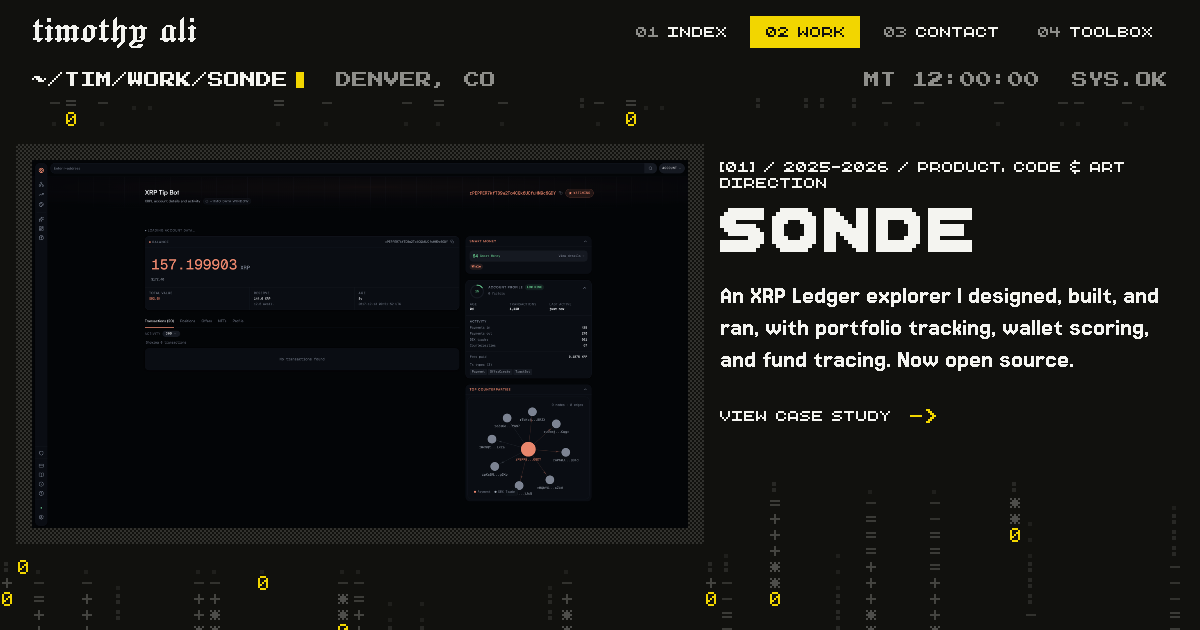
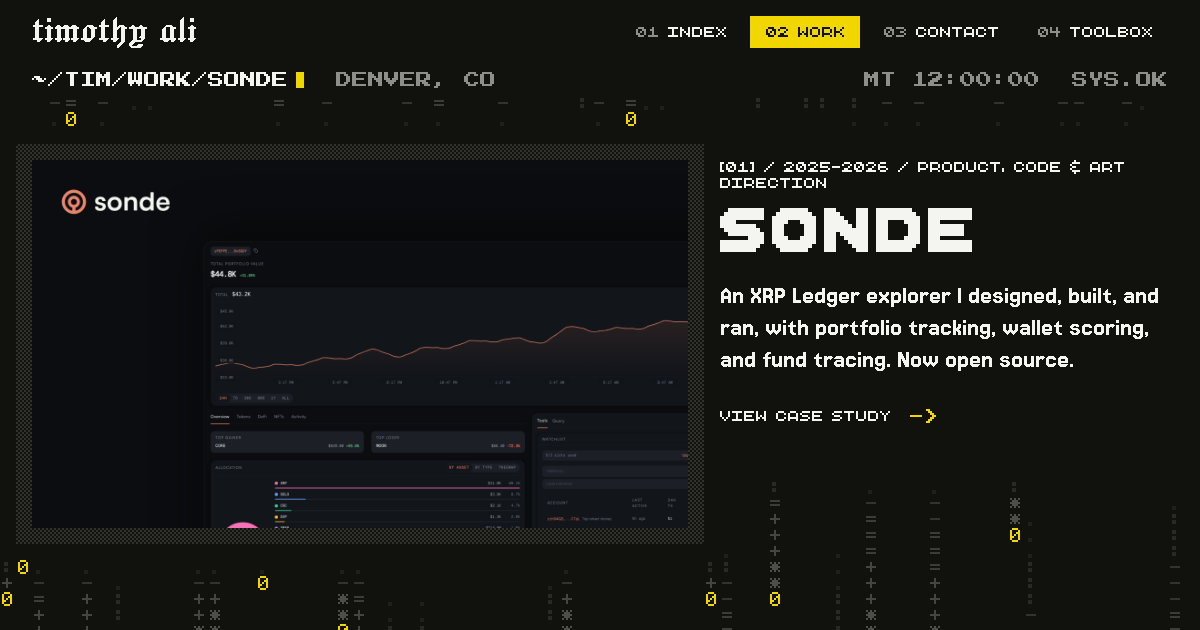
Covers for Sonde, Pocketwatch and Toolbox (PX-58, 0144)
Each cover is now the app large and cropped by the frame on the product's
own dark ground, with its logo top left: Sonde's portfolio page under its
salmon mark, Pocketwatch's dashboard under its white lockup for dark
grounds, Toolbox's home screen under the yellow Jacquard wordmark.
Rendered by tools/covers/generate.mjs at 2880x1620; the Work collage and
the three study share images regenerated, and the share-image manifest
now matches the files on disk.

diff --git a/src/lib/work.ts b/src/lib/work.ts
@@ -82,8 +82,9 @@ const source: Source[] = [
     tools: 'Figma, Next.js, TypeScript, Tailwind CSS, Recharts, PostgreSQL, ClickHouse, Neo4j, WebSockets, SSE',
     source: { href: 'https://github.com/tasyusef/sonde_os', label: 'sonde_os on GitHub' },
     description: 'An XRP Ledger explorer I designed, built, and ran, with portfolio tracking, wallet scoring, and fund tracing. Now open source.',
-    // The account page, not the near-empty landing (0132): the product on the card.
-    cover: so('account.png', 1600, 900, 'Sonde account page: balance, smart money score, risk profile, and counterparty graph'),
+    // Covers for the three products are the app large on its own dark ground under its logo
+    // (direction B, 2026-09-29), rendered by tools/covers/generate.mjs.
+    cover: so('cover.png', 2880, 1620, 'The Sonde logo over its portfolio page: total portfolio value, a performance chart, and allocation'),
     lead: [
       "Sonde was an XRP Ledger explorer with network analytics, portfolio tracking, and tools for investigating account activity. I designed, built, and ran it myself."
     ],
@@ -140,8 +141,7 @@ const source: Source[] = [
     team: 'Chris on the backend, including auth, and the business side',
     tools: 'SvelteKit 2, Svelte 5, Illustrator',
     description: 'A personal finance app for budgets, accounts, and investments. I designed the product and brand and built the front end.',
-    // The dashboard's top two rows at 16:9 (0132): the product on the card, not the campaign.
-    cover: pw('dashboard-cover.png', 1600, 900, 'Pocketwatch dashboard: money agenda, net-worth composition, investments, and spending pace'),
+    cover: pw('cover.png', 2880, 1620, 'The Pocketwatch logo over its dashboard: money agenda, net-worth composition, investments, and spending pace'),
     lead: [
       "Pocketwatch brought budgeting, net worth, and investments into one app. I handled product design, branding, and the front end. My partner Chris built the backend, including authentication, and ran the business side."
     ],
@@ -189,7 +189,7 @@ const source: Source[] = [
     tools: 'Electron, Svelte 5, TypeScript, Effect, Claude Code',
     live: { href: '/toolbox/', label: 'Downloads and guides' },
     description: 'A desktop app I designed and built to prepare brand files for handoff: logo packages, color palettes, type specimens, and converted images.',
-    cover: { src: '/work/toolbox.png', w: 2880, h: 1620, alt: 'Toolbox in the Lockup tool: a logo on a white plate, with format, treatment and size switches beside it and a count of 73 files' },
+    cover: { src: '/work/toolbox/cover.png', w: 2880, h: 1620, alt: 'The toolbox wordmark over the app’s home screen: Lockup, Palette, Specimen, and Convert' },
     lead: [
       "I designed and built Toolbox to handle the file preparation that comes with brand work. It packages logos for print and web, exports color palettes, makes type specimens, and converts images. It runs on macOS and Linux, with the same tools available from the app, command line, or an AI assistant through MCP."
     ],

diff --git a/docs/decision-log.md b/docs/decision-log.md
@@ -2018,3 +2018,11 @@ Seeing it, Timothy asked for “slightly darker”. Five candidates were rendere
 - **Implementation (PX-57):** the hero's and the invitation's progress follows the scroll on the same harmonica-derived spring (`follower` in `src/lib/components/home/spring.ts`, ω 9), critically damped (ζ 1) rather than the wheel's 0.72, because an overshoot would run a dissolve backwards and bring glyphs back. Off the window each stage jumps to its end, so handoffs stay clean at any scroll speed; keyboard focus (PX-55) jumps the spring too.
 - **Status:** Direction Timothy's; the constants and the critical damping the assistant's. Committed and pushed on his word (“commit and push both”) with PX-56.
 
+
+## 0144 — Product covers: the app on its own dark ground
+
+- **Date:** 2026-09-29
+- **Direction:** Timothy asked for better covers, “especially pocketwatch, sonde, and toolbox”. Shown three directions for the three (one UI card on the brand colour; the app large on its own dark ground under its logo; the logo alone), he said: “i like b.” He corrected the Pocketwatch logo: “that version of the pocketwatch logo is supposed to be white on a dark background. theres a reversed version of that logo that is mean to be black on lighter bgs.”
+- **Implementation (PX-58):** each cover is the app cropped large by the frame on the product's dark ground with a faint glow of its colour, and its logo large top left: Sonde's portfolio page under its salmon mark and wordmark; Pocketwatch's dashboard under its white lockup for dark grounds; Toolbox's home screen under the yellow Jacquard wordmark. Rendered by `tools/covers/generate.mjs` at 2880×1620; the Work collage and the three study share images regenerated.
+- **Assistant proposals inside it:** the screens (Sonde's portfolio page replacing the account page, which showed an account with no transactions; Toolbox's home screen rather than Lockup, whose loaded logo is Pocketwatch's), the layout and glow, and the logo sizes.
+- **Status:** Direction Timothy's. Verified; committed and pushed on his word (“commit and push”) on 2026-09-30. Evidence in `docs/iterations/pixel-v2/58-product-covers/`.

diff --git a/docs/iteration-log.md b/docs/iteration-log.md
@@ -699,3 +699,7 @@ The hero's dissolve and fill and the invitation's rain, drops and resolve now gl
 On Timothy’s request, the private résumé and cover-letter sources received the same editorial pass as the site. The public, phone-free Product résumé in `static/resume/Timothy-Ali-Resume.pdf` is updated locally. Source edits, prior versions and before/after evidence remain in the private résumé folder. The public PDF passed one-page, selectable-text, embedded-font, link and privacy checks, plus visual review.
 
 Application-copy follow-up, second pass: on Timothy’s request, the private letters were rewritten around one relevant example rather than a résumé recap, and résumé summaries and selected bullets were tightened. The public PDF was synced again; one-page, font, text, link and privacy checks pass. Private sources, prior versions and review evidence remain outside the repo. Timothy accepted the result (“the way it is now is good”); committed on his word, not pushed.
+
+## PX-58 — Covers for Sonde, Pocketwatch and Toolbox (2026-09-29, 0144)
+
+On Timothy's request and his pick of direction B from three: the three product covers are now the app cropped large on its own dark ground under its logo (Sonde portfolio, Pocketwatch dashboard with its white lockup, Toolbox home screen), rendered by `node tools/covers/generate.mjs` at 2880×1620. The Work collage and the Sonde, Pocketwatch and Toolbox share images were regenerated; the share-image size manifest in `25-social-site/assets.json` now matches the files on disk. Checks: `pnpm check` 0/0, 24 tests, build, `social:verify` PASS, grid audit 0 everywhere, no page errors or broken images. Evidence in `docs/iterations/pixel-v2/58-product-covers/`. Committed and pushed on his word.

diff --git a/docs/iterations/pixel-v2/58-product-covers/README.md b/docs/iterations/pixel-v2/58-product-covers/README.md
@@ -1,0 +1,11 @@
+# PX-58 — Covers for Sonde, Pocketwatch and Toolbox (2026-09-29, 0144)
+
+Timothy: “i want to create better cover images for each project. especially pocketwatch, sonde, and toolbox.” The three were plain screenshots (`before-covers.jpg`); PARC and FirstStrike, a mark on a brand ground, read far better at card size.
+
+- `directions-a-b-c.jpg` — the three directions shown: A, one UI card on the brand colour (after his own Sonde marketing card); B, the app large and cropped by the frame on its own dark ground under its logo; C, the logo alone. He chose B, and corrected the Pocketwatch logo: the white lockup is the one for dark grounds (the black one is for light).
+- `after-wheel-and-work-1440.jpg` — the new covers on the Home wheel (Sonde, Pocketwatch, Toolbox) and on Work.
+- `after-share-images.jpg` — the Work collage and the three study share images regenerated with them, and the Pocketwatch cover at full size.
+
+Covers are rendered by `node tools/covers/generate.mjs` at 2880×1620 (laid out at 1600×900, 1.8×) into `static/work/{sonde,pocketwatch,toolbox}/cover.png`; the logos are in `tools/covers/marks/` (Sonde's from its app, Pocketwatch's white lockup from its brand files), the screens are the site's own (Sonde's portfolio page, Pocketwatch's dashboard, Toolbox's home screen).
+
+Checks: `pnpm check` 0/0, 24 tests, build, `social:verify` PASS, grid audit 0 at every route and width, no page errors or broken images on Home and Work. The old covers (`static/work/sonde/account.png`, `static/work/pocketwatch/dashboard-cover.png`, `static/work/toolbox.png`) are no longer referenced and are kept until he says.

diff --git a/AGENTS.md b/AGENTS.md
@@ -100,3 +100,5 @@ PX-55 (2026-09-29, 0141): on Timothy's “go ahead and fix all of that”, Home'
 PX-56 (2026-09-29, 0142): copy refinement on Timothy’s request for more natural wording. All nine studies, shared project summaries, Home/Contact, Toolbox landing and guides, and CLI/MCP explanations edited. Product positioning, facts, quotes, technical options and commands preserved. Affected share images regenerated. Before/after record and browser evidence in `docs/iterations/pixel-v2/56-copy-refinement/`. Committed and pushed on his word with PX-57 (2026-09-29).
 
 PX-57 (2026-09-29, 0143): on Timothy's word the hero and invitation follow the scroll on the spring too (critically damped, so dissolves never run backwards); pushed with PX-56.
+
+PX-58 (2026-09-29, 0144): covers for Sonde, Pocketwatch and Toolbox are the app large on its own dark ground under its logo (Timothy's pick of direction B; Pocketwatch uses its white lockup for dark grounds), rendered by `node tools/covers/generate.mjs` into `static/work/<slug>/cover.png` at 2880×1620; the Work collage and three study share images regenerated. The old covers (`sonde/account.png`, `pocketwatch/dashboard-cover.png`, `work/toolbox.png`) are unreferenced and kept until he says. Pushed on his word.
